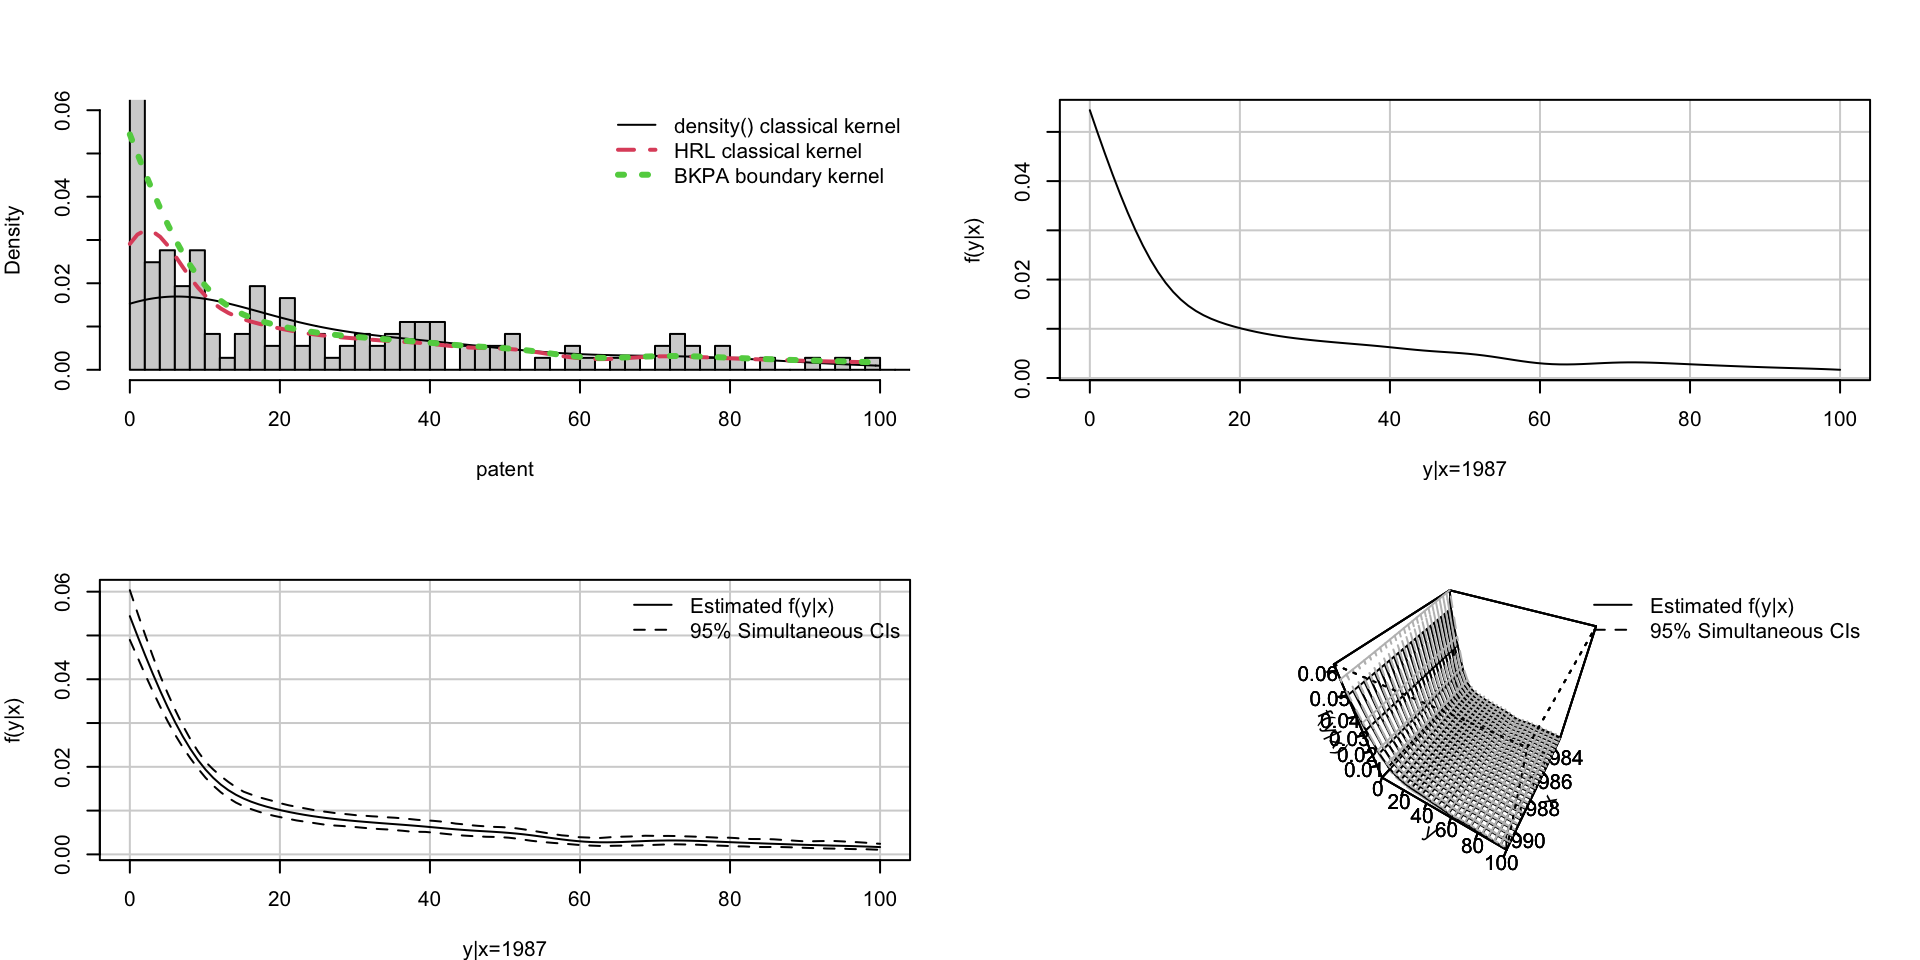
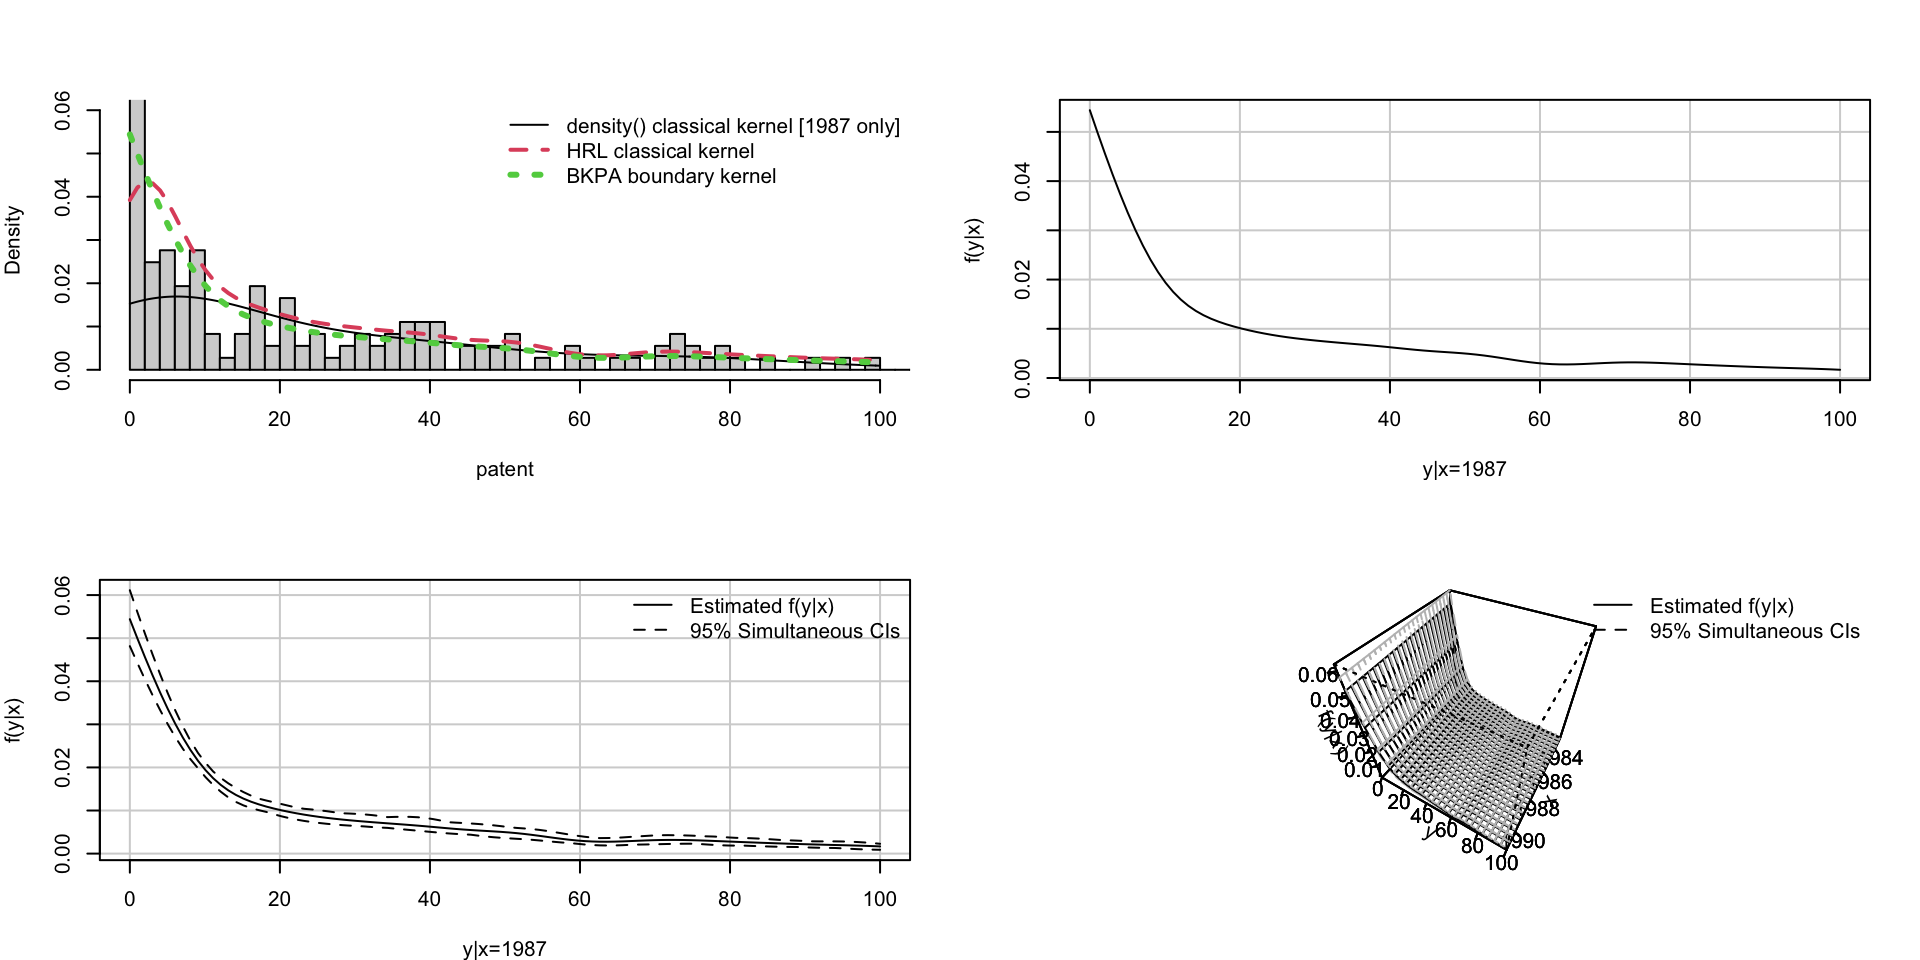
Pre-computed objects for patent illustration with comments for speed during interactive illustration

diff --git a/index.html b/index.html
@@ -452,7 +452,7 @@ Qi Li<sup>3</sup>
     </div>
 </div>
 
-  <p class="date">Updated February 15, 2025</p>
+  <p class="date">Updated February 16, 2025</p>
 </section><section><section id="slide-pro-tips" class="title-slide slide level1 center"><h1>Slide Pro-Tips</h1>
 <div>
 <ul>
@@ -978,40 +978,56 @@ Figure&nbsp;7: Conditional KDE for <span class="math inline">\(\textrm{Beta}(1+x
 <div class="callout-content">
 <div class="cell">
 <div class="sourceCode cell-code" id="cb8"><pre class="sourceCode numberSource r number-lines code-with-copy"><code class="sourceCode r"><span id="cb8-1"><a href=""></a><span class="fu">library</span>(bkcde)</span>
-<span id="cb8-2"><a href=""></a><span class="fu">library</span>(np)</span>
-<span id="cb8-3"><a href=""></a><span class="fu">library</span>(pglm)</span>
-<span id="cb8-4"><a href=""></a><span class="do">## Annual observations of 181 firms from 1983 to 1991, number of European patent</span></span>
-<span id="cb8-5"><a href=""></a><span class="do">## applications (count), 1629 observations. </span></span>
-<span id="cb8-6"><a href=""></a><span class="fu">data</span>(PatentsRD)</span>
-<span id="cb8-7"><a href=""></a><span class="fu">attach</span>(PatentsRD)</span>
-<span id="cb8-8"><a href=""></a><span class="do">## Patent data often has a preponderance of zeros and "overdispersion". Since</span></span>
-<span id="cb8-9"><a href=""></a><span class="do">## the data has a boundary at zero, a zero-inflated negative binomial model is</span></span>
-<span id="cb8-10"><a href=""></a><span class="do">## often used. Instead we consider a kernel density estimation approach that</span></span>
-<span id="cb8-11"><a href=""></a><span class="do">## adapts to the boundary automatically and also chooses the polynomial order in</span></span>
-<span id="cb8-12"><a href=""></a><span class="do">## a data-driven fashion.</span></span>
-<span id="cb8-13"><a href=""></a>x <span class="ot">&lt;-</span> <span class="fu">as.integer</span>(<span class="fu">as.character</span>(year))</span>
-<span id="cb8-14"><a href=""></a>y <span class="ot">&lt;-</span> patent</span>
-<span id="cb8-15"><a href=""></a>f.bkcde <span class="ot">&lt;-</span> <span class="fu">bkcde</span>(<span class="at">x=</span>x,<span class="at">y=</span>y,<span class="at">proper=</span><span class="cn">TRUE</span>)</span>
-<span id="cb8-16"><a href=""></a><span class="do">## Estimator of Hall, Racine &amp; Li (polynomial order 0 conditional density estimate)</span></span>
-<span id="cb8-17"><a href=""></a><span class="do">## with bandwidth selection via likelihood cross-validation</span></span>
-<span id="cb8-18"><a href=""></a>f.hrl <span class="ot">&lt;-</span> <span class="fu">npcdens</span>(<span class="at">txdat=</span>x,<span class="at">exdat=</span><span class="fu">rep</span>(<span class="dv">1987</span>,<span class="dv">100</span>),<span class="at">tydat=</span>y,<span class="at">eydat=</span><span class="fu">seq</span>(<span class="fu">min</span>(y),<span class="dv">100</span>,<span class="at">length=</span><span class="dv">100</span>))</span>
-<span id="cb8-19"><a href=""></a><span class="do">## In the following plots note that the data has a very long tail (right skewed)</span></span>
-<span id="cb8-20"><a href=""></a><span class="do">## so we hone in on firms having 100 or fewer patents/year. We first take</span></span>
-<span id="cb8-21"><a href=""></a><span class="do">## univariate histogram and density() estimators for the year 1987, then overlay</span></span>
-<span id="cb8-22"><a href=""></a><span class="do">## the conditional kernel density estimates from npcdens() and bkcde() for the</span></span>
-<span id="cb8-23"><a href=""></a><span class="do">## same year (these use data for all years). We also plot the bkcde() 2D</span></span>
-<span id="cb8-24"><a href=""></a><span class="do">## estimates for the year 1987 without, then with simultaneous confidence</span></span>
-<span id="cb8-25"><a href=""></a><span class="do">## intervals. Finally, we plot the bkcde() estimate in 3D with and without</span></span>
-<span id="cb8-26"><a href=""></a><span class="do">## confidence intervals (all years)</span></span>
-<span id="cb8-27"><a href=""></a><span class="fu">par</span>(<span class="at">mfrow=</span><span class="fu">c</span>(<span class="dv">2</span>,<span class="dv">2</span>),<span class="at">cex=</span>.<span class="dv">65</span>,<span class="at">mar=</span><span class="fu">c</span>(<span class="dv">4</span>,<span class="dv">4</span>,<span class="dv">4</span>,<span class="dv">2</span>))</span>
-<span id="cb8-28"><a href=""></a><span class="fu">hist</span>(y[x<span class="sc">==</span><span class="dv">1987</span>],<span class="at">xlab=</span><span class="st">"patent"</span>,<span class="at">main=</span><span class="st">""</span>,<span class="at">ylim=</span><span class="fu">c</span>(<span class="dv">0</span>,<span class="fl">0.06</span>),<span class="at">xlim=</span><span class="fu">c</span>(<span class="dv">0</span>,<span class="dv">100</span>),<span class="at">prob=</span><span class="cn">TRUE</span>,<span class="at">breaks=</span><span class="dv">500</span>)</span>
-<span id="cb8-29"><a href=""></a><span class="fu">lines</span>(<span class="fu">density</span>(y[x<span class="sc">==</span><span class="dv">1987</span>],<span class="at">from=</span><span class="dv">0</span>,<span class="at">to=</span><span class="dv">100</span>),<span class="at">lty=</span><span class="dv">1</span>,<span class="at">col=</span><span class="dv">1</span>)</span>
-<span id="cb8-30"><a href=""></a><span class="fu">lines</span>(<span class="fu">seq</span>(<span class="fu">min</span>(y),<span class="dv">100</span>,<span class="at">length=</span><span class="dv">100</span>),<span class="fu">fitted</span>(f.hrl),<span class="at">col=</span><span class="dv">2</span>,<span class="at">lty=</span><span class="dv">2</span>,<span class="at">lwd=</span><span class="dv">2</span>)</span>
-<span id="cb8-31"><a href=""></a><span class="fu">lines</span>(<span class="fu">seq</span>(<span class="fu">min</span>(y),<span class="dv">100</span>,<span class="at">length=</span><span class="dv">100</span>),<span class="fu">predict</span>(f.bkcde,<span class="at">newdata=</span><span class="fu">data.frame</span>(<span class="at">x=</span><span class="fu">rep</span>(<span class="dv">1987</span>,<span class="dv">100</span>),<span class="at">y=</span><span class="fu">seq</span>(<span class="fu">min</span>(y),<span class="dv">100</span>,<span class="at">length=</span><span class="dv">100</span>))),<span class="at">col=</span><span class="dv">3</span>,<span class="at">lty=</span><span class="dv">3</span>,<span class="at">lwd=</span><span class="dv">3</span>)</span>
-<span id="cb8-32"><a href=""></a><span class="fu">legend</span>(<span class="st">"topright"</span>,<span class="at">legend=</span><span class="fu">c</span>(<span class="st">"density() classical kernel"</span>,<span class="st">"HRL classical kernel"</span>,<span class="st">"BKPA boundary kernel"</span>),<span class="at">col=</span><span class="dv">1</span><span class="sc">:</span><span class="dv">3</span>,<span class="at">lty=</span><span class="dv">1</span><span class="sc">:</span><span class="dv">3</span>,<span class="at">lwd=</span><span class="fu">c</span>(<span class="dv">1</span>,<span class="dv">2</span>,<span class="dv">3</span>),<span class="at">bty=</span><span class="st">"n"</span>)</span>
-<span id="cb8-33"><a href=""></a><span class="fu">plot</span>(f.bkcde,<span class="at">persp=</span><span class="cn">FALSE</span>,<span class="at">x.eval=</span><span class="dv">1987</span>,<span class="at">y.eval=</span><span class="fu">seq</span>(<span class="fu">min</span>(y),<span class="dv">100</span>,<span class="at">length=</span><span class="dv">100</span>),<span class="at">xlim=</span><span class="fu">c</span>(<span class="dv">0</span>,<span class="dv">100</span>))</span>
-<span id="cb8-34"><a href=""></a><span class="fu">plot</span>(f.bkcde,<span class="at">persp=</span><span class="cn">FALSE</span>,<span class="at">x.eval=</span><span class="dv">1987</span>,<span class="at">y.eval=</span><span class="fu">seq</span>(<span class="fu">min</span>(y),<span class="dv">100</span>,<span class="at">length=</span><span class="dv">100</span>),<span class="at">xlim=</span><span class="fu">c</span>(<span class="dv">0</span>,<span class="dv">100</span>),<span class="at">ci=</span><span class="cn">TRUE</span>,<span class="at">ci.method=</span><span class="st">"Simultaneous"</span>,<span class="at">ci.preplot=</span><span class="cn">FALSE</span>,<span class="at">B=</span><span class="dv">1000</span>)</span>
-<span id="cb8-35"><a href=""></a><span class="fu">plot</span>(f.bkcde,<span class="at">x.eval=</span><span class="fu">seq</span>(<span class="fu">min</span>(x),<span class="fu">max</span>(x),<span class="at">length=</span><span class="dv">25</span>),<span class="at">y.eval=</span><span class="fu">seq</span>(<span class="fu">min</span>(y),<span class="dv">100</span>,<span class="at">length=</span><span class="dv">25</span>),<span class="at">proper=</span><span class="cn">FALSE</span>,<span class="at">ci=</span><span class="cn">TRUE</span>,<span class="at">ci.method=</span><span class="st">"Simultaneous"</span>,<span class="at">ci.preplot=</span><span class="cn">FALSE</span>,<span class="at">B=</span><span class="dv">1000</span>)</span></code><button title="Copy to Clipboard" class="code-copy-button"><i class="bi"></i></button></pre></div>
+<span id="cb8-2"><a href=""></a><span class="fu">library</span>(pglm)</span>
+<span id="cb8-3"><a href=""></a><span class="do">## Annual observations of 181 firms from 1983 to 1991, number of European patent</span></span>
+<span id="cb8-4"><a href=""></a><span class="do">## applications (count), 1629 observations. </span></span>
+<span id="cb8-5"><a href=""></a><span class="fu">data</span>(PatentsRD)</span>
+<span id="cb8-6"><a href=""></a><span class="fu">attach</span>(PatentsRD)</span>
+<span id="cb8-7"><a href=""></a><span class="do">## Patent data often has a preponderance of zeros and "overdispersion". Since</span></span>
+<span id="cb8-8"><a href=""></a><span class="do">## the data has a boundary at zero, a zero-inflated negative binomial model is</span></span>
+<span id="cb8-9"><a href=""></a><span class="do">## often used. Instead we consider a kernel density estimation approach that</span></span>
+<span id="cb8-10"><a href=""></a><span class="do">## adapts to the boundary automatically and also chooses the polynomial order in</span></span>
+<span id="cb8-11"><a href=""></a><span class="do">## a data-driven fashion.</span></span>
+<span id="cb8-12"><a href=""></a>x <span class="ot">&lt;-</span> <span class="fu">as.integer</span>(<span class="fu">as.character</span>(year))</span>
+<span id="cb8-13"><a href=""></a>y <span class="ot">&lt;-</span> patent</span>
+<span id="cb8-14"><a href=""></a><span class="do">## To most quickly run this example, we take results from a prior run os that in</span></span>
+<span id="cb8-15"><a href=""></a><span class="do">## real-time computation proceeds as quickly as possible for illustrative</span></span>
+<span id="cb8-16"><a href=""></a><span class="do">## purposes (you can comment out/renable to confirm they produce identical</span></span>
+<span id="cb8-17"><a href=""></a><span class="do">## results)</span></span>
+<span id="cb8-18"><a href=""></a><span class="co"># f.bkcde &lt;- bkcde(x=x,y=y,proper=TRUE)</span></span>
+<span id="cb8-19"><a href=""></a><span class="co"># f.bkcde$h [1] 5.022254 5.233370</span></span>
+<span id="cb8-20"><a href=""></a><span class="co"># f.bkcde$degree [1] 0</span></span>
+<span id="cb8-21"><a href=""></a>f.bkcde <span class="ot">&lt;-</span> <span class="fu">bkcde</span>(<span class="at">h=</span><span class="fu">c</span>(<span class="fl">5.022254</span>,<span class="fl">5.233370</span>),<span class="at">degree=</span><span class="dv">0</span>,<span class="at">x=</span>x,<span class="at">y=</span>y,<span class="at">proper=</span><span class="cn">TRUE</span>)</span>
+<span id="cb8-22"><a href=""></a><span class="do">## Estimator of Hall, Racine &amp; Li (polynomial order 0 conditional density estimate)</span></span>
+<span id="cb8-23"><a href=""></a><span class="do">## with bandwidth selection via likelihood cross-validation</span></span>
+<span id="cb8-24"><a href=""></a><span class="co"># f.hrl &lt;- bkcde(degree.max=0,x=x,y=y,proper=TRUE,y.ub=Inf,y.lb=-Inf,x.ub=Inf,x.lb=-Inf)</span></span>
+<span id="cb8-25"><a href=""></a><span class="co"># f.hrl$h [1] 4.166873 5.442247</span></span>
+<span id="cb8-26"><a href=""></a><span class="co"># f.hrl$degree [1] 0</span></span>
+<span id="cb8-27"><a href=""></a>f.hrl <span class="ot">&lt;-</span> <span class="fu">bkcde</span>(<span class="at">h=</span><span class="fu">c</span>(<span class="fl">4.166873</span>,<span class="fl">5.442247</span>),<span class="at">degree=</span><span class="dv">0</span>,<span class="at">x=</span>x,<span class="at">y=</span>y,<span class="at">proper=</span><span class="cn">TRUE</span>,<span class="at">y.ub=</span><span class="cn">Inf</span>,<span class="at">y.lb=</span><span class="sc">-</span><span class="cn">Inf</span>,<span class="at">x.ub=</span><span class="cn">Inf</span>,<span class="at">x.lb=</span><span class="sc">-</span><span class="cn">Inf</span>)</span>
+<span id="cb8-28"><a href=""></a><span class="do">## In the following plots note that the data has a very long tail (right skewed)</span></span>
+<span id="cb8-29"><a href=""></a><span class="do">## so we hone in on firms having 100 or fewer patents/year. We first take</span></span>
+<span id="cb8-30"><a href=""></a><span class="do">## univariate histogram and density() estimators for the year 1987, then overlay</span></span>
+<span id="cb8-31"><a href=""></a><span class="do">## the conditional kernel density estimates from npcdens() and bkcde() for the</span></span>
+<span id="cb8-32"><a href=""></a><span class="do">## same year (these use data for all years). We also plot the bkcde() 2D</span></span>
+<span id="cb8-33"><a href=""></a><span class="do">## estimates for the year 1987 without, then with simultaneous confidence</span></span>
+<span id="cb8-34"><a href=""></a><span class="do">## intervals. Finally, we plot the bkcde() estimate in 3D with and without</span></span>
+<span id="cb8-35"><a href=""></a><span class="do">## confidence intervals (all years). We override the default number of bootstrap</span></span>
+<span id="cb8-36"><a href=""></a><span class="do">## replications to 399.</span></span>
+<span id="cb8-37"><a href=""></a>B <span class="ot">&lt;-</span> <span class="dv">399</span></span>
+<span id="cb8-38"><a href=""></a><span class="fu">par</span>(<span class="at">mfrow=</span><span class="fu">c</span>(<span class="dv">2</span>,<span class="dv">2</span>),<span class="at">cex=</span>.<span class="dv">65</span>,<span class="at">mar=</span><span class="fu">c</span>(<span class="dv">4</span>,<span class="dv">4</span>,<span class="dv">4</span>,<span class="dv">2</span>))</span>
+<span id="cb8-39"><a href=""></a><span class="fu">hist</span>(y[x<span class="sc">==</span><span class="dv">1987</span>],<span class="at">xlab=</span><span class="st">"patent"</span>,<span class="at">main=</span><span class="st">""</span>,<span class="at">ylim=</span><span class="fu">c</span>(<span class="dv">0</span>,<span class="fl">0.06</span>),<span class="at">xlim=</span><span class="fu">c</span>(<span class="dv">0</span>,<span class="dv">100</span>),<span class="at">prob=</span><span class="cn">TRUE</span>,<span class="at">breaks=</span><span class="dv">500</span>)</span>
+<span id="cb8-40"><a href=""></a><span class="fu">lines</span>(<span class="fu">density</span>(y[x<span class="sc">==</span><span class="dv">1987</span>],<span class="at">from=</span><span class="dv">0</span>,<span class="at">to=</span><span class="dv">100</span>),<span class="at">lty=</span><span class="dv">1</span>,<span class="at">col=</span><span class="dv">1</span>)</span>
+<span id="cb8-41"><a href=""></a><span class="fu">lines</span>(<span class="fu">seq</span>(<span class="fu">min</span>(y),<span class="dv">100</span>,<span class="at">length=</span><span class="dv">100</span>),<span class="fu">predict</span>(f.hrl,<span class="at">newdata=</span><span class="fu">data.frame</span>(<span class="at">x=</span><span class="fu">rep</span>(<span class="dv">1987</span>,<span class="dv">100</span>),<span class="at">y=</span><span class="fu">seq</span>(<span class="fu">min</span>(y),<span class="dv">100</span>,<span class="at">length=</span><span class="dv">100</span>))),</span>
+<span id="cb8-42"><a href=""></a>      <span class="at">col=</span><span class="dv">2</span>,<span class="at">lty=</span><span class="dv">2</span>,<span class="at">lwd=</span><span class="dv">2</span>)</span>
+<span id="cb8-43"><a href=""></a><span class="fu">lines</span>(<span class="fu">seq</span>(<span class="fu">min</span>(y),<span class="dv">100</span>,<span class="at">length=</span><span class="dv">100</span>),<span class="fu">predict</span>(f.bkcde,<span class="at">newdata=</span><span class="fu">data.frame</span>(<span class="at">x=</span><span class="fu">rep</span>(<span class="dv">1987</span>,<span class="dv">100</span>),<span class="at">y=</span><span class="fu">seq</span>(<span class="fu">min</span>(y),<span class="dv">100</span>,<span class="at">length=</span><span class="dv">100</span>))),</span>
+<span id="cb8-44"><a href=""></a>      <span class="at">col=</span><span class="dv">3</span>,<span class="at">lty=</span><span class="dv">3</span>,<span class="at">lwd=</span><span class="dv">3</span>)</span>
+<span id="cb8-45"><a href=""></a><span class="fu">legend</span>(<span class="st">"topright"</span>,<span class="at">legend=</span><span class="fu">c</span>(<span class="st">"density() classical kernel [1987 only]"</span>,<span class="st">"HRL classical kernel"</span>,<span class="st">"BKPA boundary kernel"</span>),</span>
+<span id="cb8-46"><a href=""></a>       <span class="at">col=</span><span class="dv">1</span><span class="sc">:</span><span class="dv">3</span>,<span class="at">lty=</span><span class="dv">1</span><span class="sc">:</span><span class="dv">3</span>,<span class="at">lwd=</span><span class="fu">c</span>(<span class="dv">1</span>,<span class="dv">2</span>,<span class="dv">3</span>),<span class="at">bty=</span><span class="st">"n"</span>)</span>
+<span id="cb8-47"><a href=""></a><span class="fu">plot</span>(f.bkcde,<span class="at">persp=</span><span class="cn">FALSE</span>,<span class="at">x.eval=</span><span class="dv">1987</span>,<span class="at">y.eval=</span><span class="fu">seq</span>(<span class="fu">min</span>(y),<span class="dv">100</span>,<span class="at">length=</span><span class="dv">100</span>),<span class="at">xlim=</span><span class="fu">c</span>(<span class="dv">0</span>,<span class="dv">100</span>))</span>
+<span id="cb8-48"><a href=""></a><span class="fu">plot</span>(f.bkcde,<span class="at">persp=</span><span class="cn">FALSE</span>,<span class="at">x.eval=</span><span class="dv">1987</span>,<span class="at">y.eval=</span><span class="fu">seq</span>(<span class="fu">min</span>(y),<span class="dv">100</span>,<span class="at">length=</span><span class="dv">100</span>),<span class="at">xlim=</span><span class="fu">c</span>(<span class="dv">0</span>,<span class="dv">100</span>),</span>
+<span id="cb8-49"><a href=""></a>     <span class="at">ci=</span><span class="cn">TRUE</span>,<span class="at">ci.method=</span><span class="st">"Simultaneous"</span>,<span class="at">ci.preplot=</span><span class="cn">FALSE</span>,<span class="at">B=</span>B)</span>
+<span id="cb8-50"><a href=""></a><span class="fu">plot</span>(f.bkcde,<span class="at">x.eval=</span><span class="fu">seq</span>(<span class="fu">min</span>(x),<span class="fu">max</span>(x),<span class="at">length=</span><span class="dv">25</span>),<span class="at">y.eval=</span><span class="fu">seq</span>(<span class="fu">min</span>(y),<span class="dv">100</span>,<span class="at">length=</span><span class="dv">25</span>),</span>
+<span id="cb8-51"><a href=""></a>     <span class="at">ci=</span><span class="cn">TRUE</span>,<span class="at">ci.method=</span><span class="st">"Simultaneous"</span>,<span class="at">ci.preplot=</span><span class="cn">FALSE</span>,<span class="at">B=</span>B)</span></code><button title="Copy to Clipboard" class="code-copy-button"><i class="bi"></i></button></pre></div>
 </div>
 
 </div>

diff --git a/README.md b/README.md
@@ -8,5 +8,9 @@
 
 -   The bkcde R package can be accessed at <https://github.com/JeffreyRacine/bkcde> (you need to first install this package if you wish to compile the slides)
 
+-   To install auxiliary packages required to compile the slides, run the following command in R:
+
+    install.packages(c("lpcde","np","pglm","progress","robustbase"),repos="https://cran.wu.ac.at/")
+
 > To generate the slides, a) click the CODE icon in the GitHub repository, b) click on Download ZIP, c) unzip the download, d) open index.qmd in RStudio, e) comment out the simulation section (this reads files from a subdirectory containing large data files so is not included in this repo), f) install the packages highlighted in RStudio, then g) click Render in RStudio (you may have to install a few packages - click install if presented with the option), h) be patient, the code can take some time to run and complete.
 
